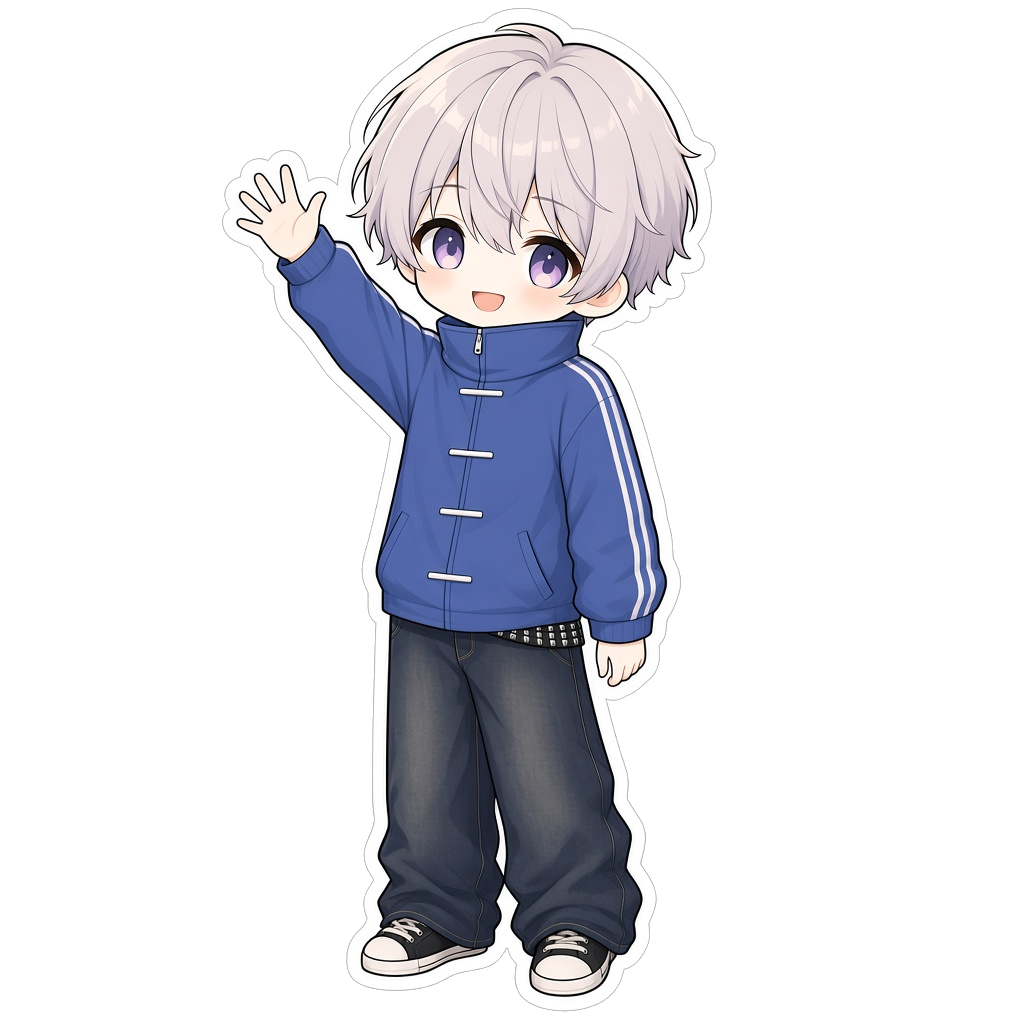
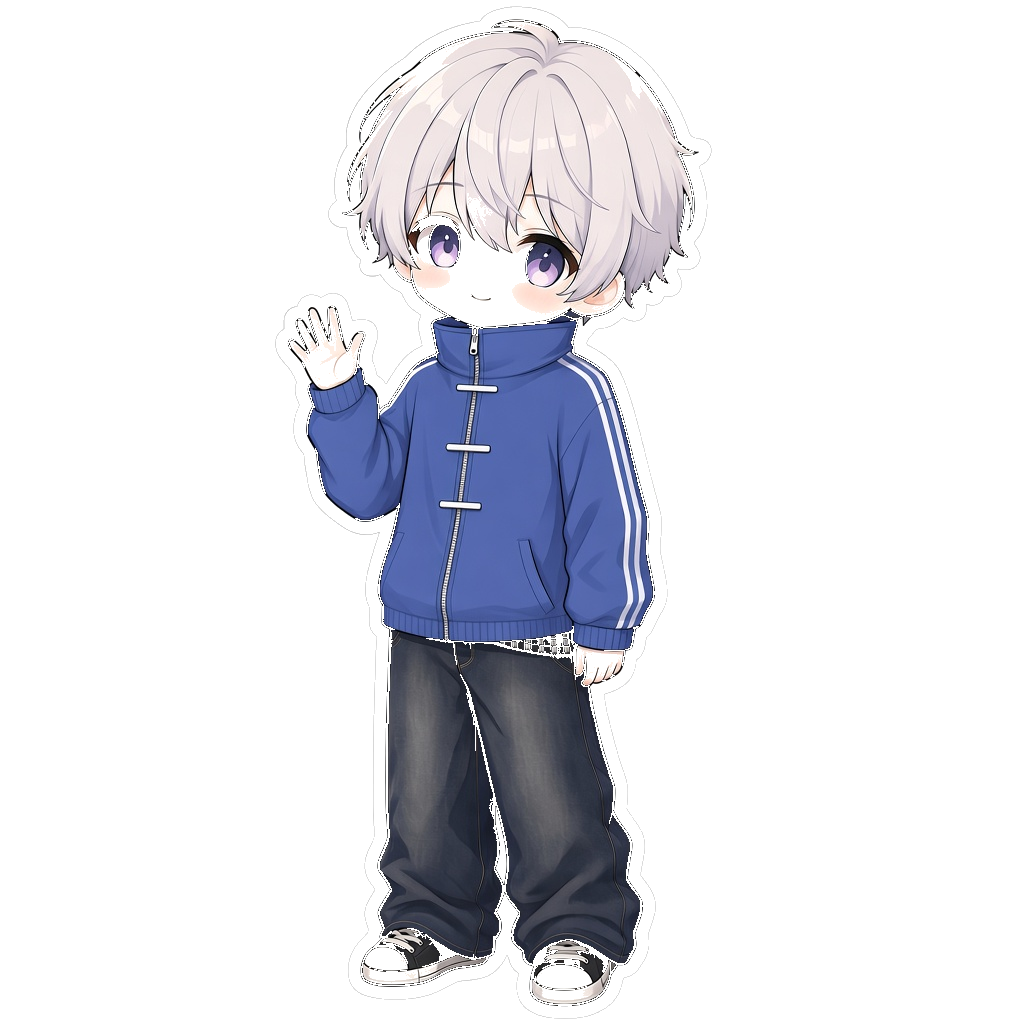
Switch boy Ara OG to the blue zip-up and jeans look (cache-busting asset path).

Changed region(s): [[0.2188, 0.0, 0.6875, 1.0]]

diff --git a/frontend/src/lib/araOutfitCache.ts b/frontend/src/lib/araOutfitCache.ts
@@ -7,7 +7,7 @@ const CHANGE_EVENT = "alara-outfit-changed";
 
 /** OG Ara = floral cottage dress (PNG). Keep in sync with backend classic art. */
 export const GIRL_DEFAULT_LOOK_SRC = "/outfits/looks/look-floral-cottage.png";
-export const BOY_DEFAULT_LOOK_SRC = "/outfits/looks/look-floral-cottage-boy.png";
+export const BOY_DEFAULT_LOOK_SRC = "/outfits/looks/look-boy-zip-og.png";
 export const DEFAULT_LOOK_SRC = GIRL_DEFAULT_LOOK_SRC;
 export const OG_OUTFIT_ID = "look-lavender-soft";
 export const OG_BOY_OUTFIT_ID = "look-lavender-soft-boy";

diff --git a/frontend/src/components/AraAvatar.tsx b/frontend/src/components/AraAvatar.tsx
@@ -71,7 +71,9 @@ export default function AraAvatar({
     ? araPoseSrc(gender, pose)
     : gender === "boy" && activeLook.endsWith("look-floral-cottage.png")
       ? defaultLookSrc("boy")
-      : gender === "girl" && activeLook.endsWith("look-floral-cottage-boy.png")
+      : gender === "girl" &&
+          (activeLook.endsWith("look-floral-cottage-boy.png") ||
+            activeLook.endsWith("look-boy-zip-og.png"))
         ? defaultLookSrc("girl")
         : activeLook;
 

diff --git a/frontend/src/lib/araPoses.ts b/frontend/src/lib/araPoses.ts
@@ -53,6 +53,7 @@ export function isOgLookSrc(src: string | null | undefined): boolean {
   return (
     src.endsWith("look-floral-cottage.png") ||
     src.endsWith("look-floral-cottage-boy.png") ||
+    src.endsWith("look-boy-zip-og.png") ||
     src.includes("/ara/poses/")
   );
 }

diff --git a/backend/main.py b/backend/main.py
@@ -118,11 +118,11 @@ SHOP_CATALOG = [
         "id": "look-lavender-soft-boy",
         "name": "OG Ara (Boy)",
         "emoji": "💙",
-        "fullImage": "looks/look-floral-cottage-boy.png",
+        "fullImage": "looks/look-boy-zip-og.png",
         "price": 0,
         "slot": "outfit",
         "gender": "boy",
-        "pieces": "Blue striped windbreaker · Studded belt · Baggy jeans · Black sneakers",
+        "pieces": "Blue zip-up windbreaker · Studded belt · Baggy jeans · Black sneakers",
     },
     {
         "id": "look-boy-cream-hoodie",
